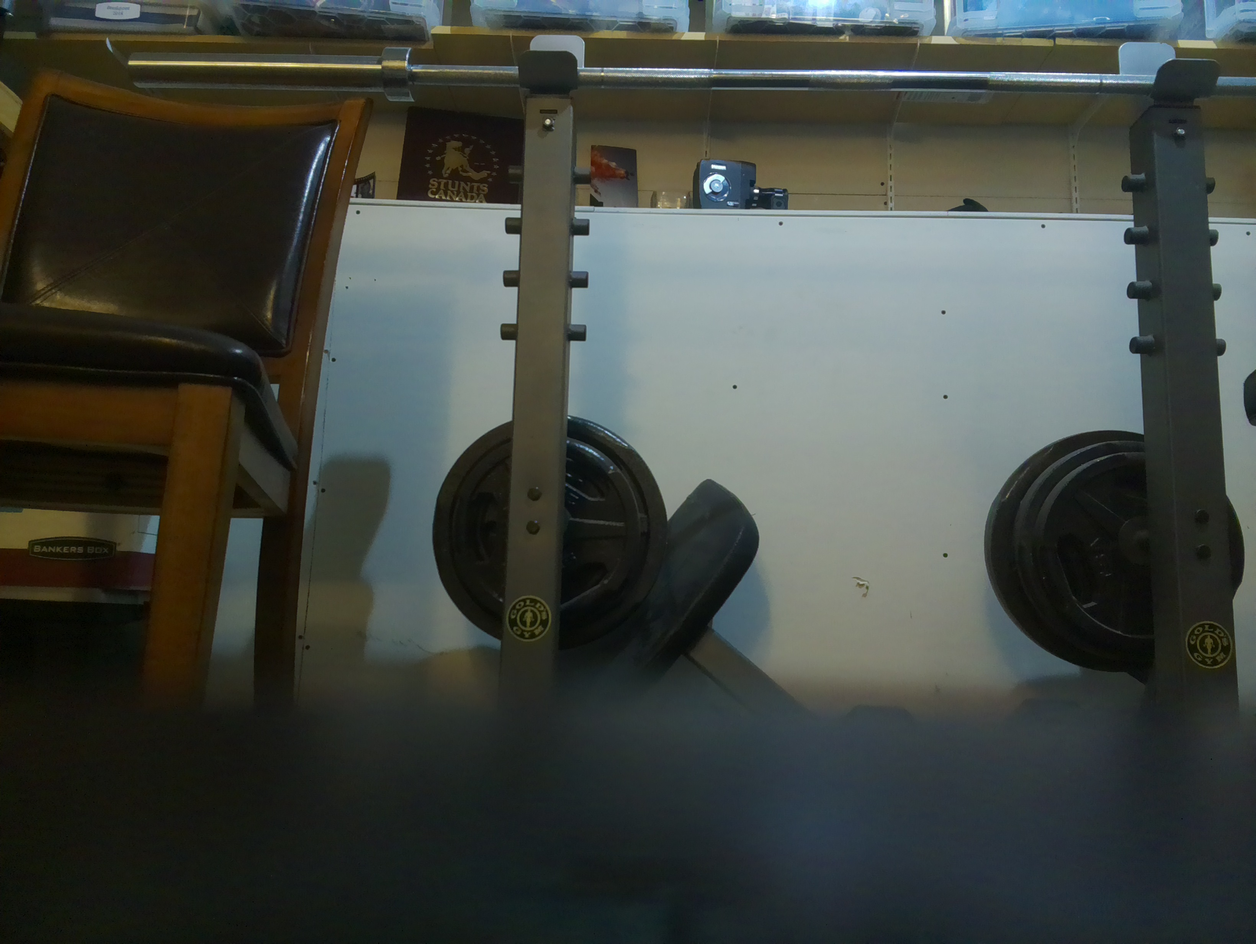
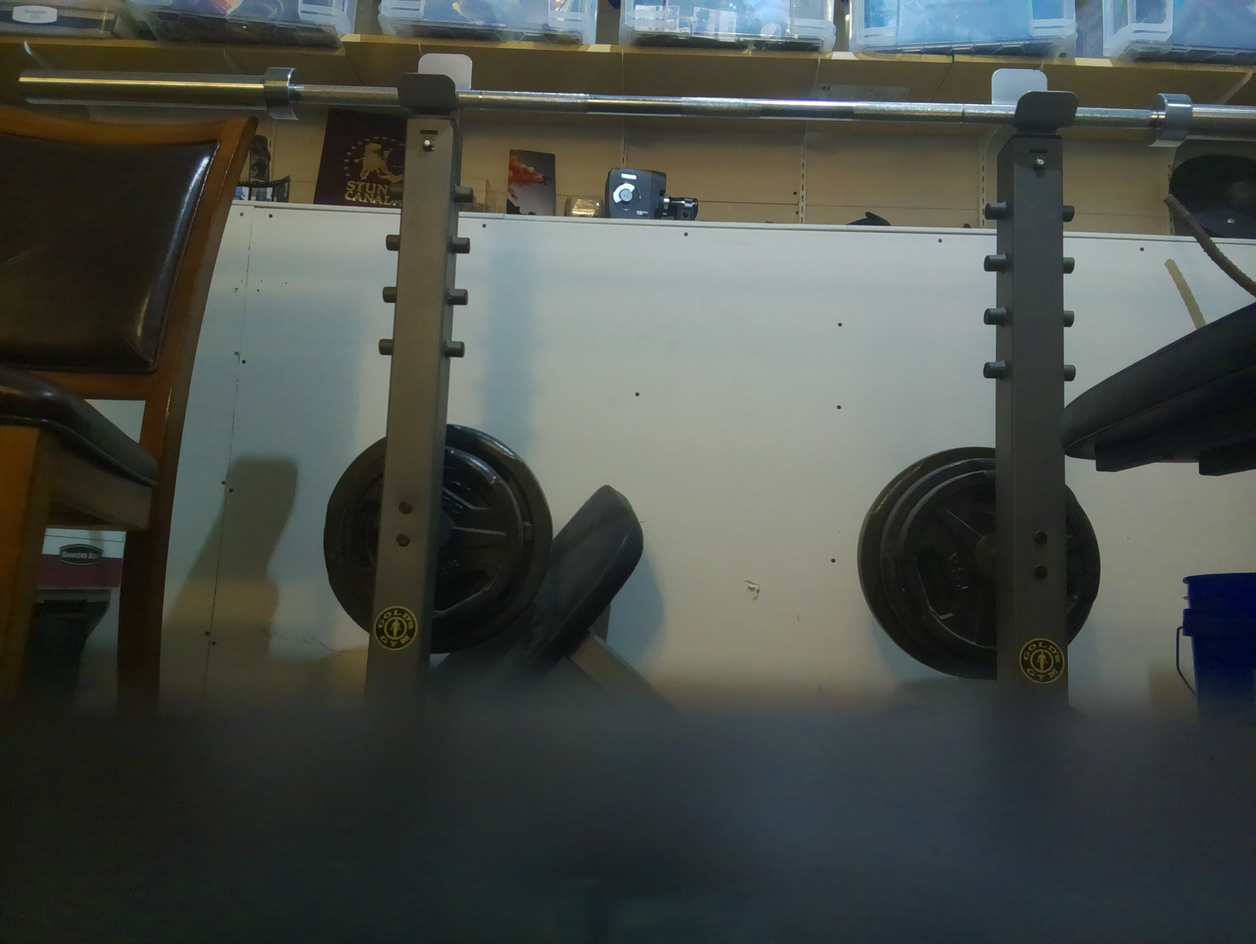
First commit on RPi 4 (old one broke)

diff --git a/main.py b/main.py
@@ -49,7 +49,7 @@ while True:
 
     except Exception as e:
         print(f"An error occurred: {e}")
-        tts.speak(f"Huh, something went wrong. It looks like the code raised a {str(e)[8:-2]}. Here are some details:")
+        tts.speak(f"Huh, something went wrong. It looks like the code raised a {e}. Here are some details:")
         for attr in dir(e):
             if not attr.startswith("__"):
                 if not callable(getattr(e, attr)):
